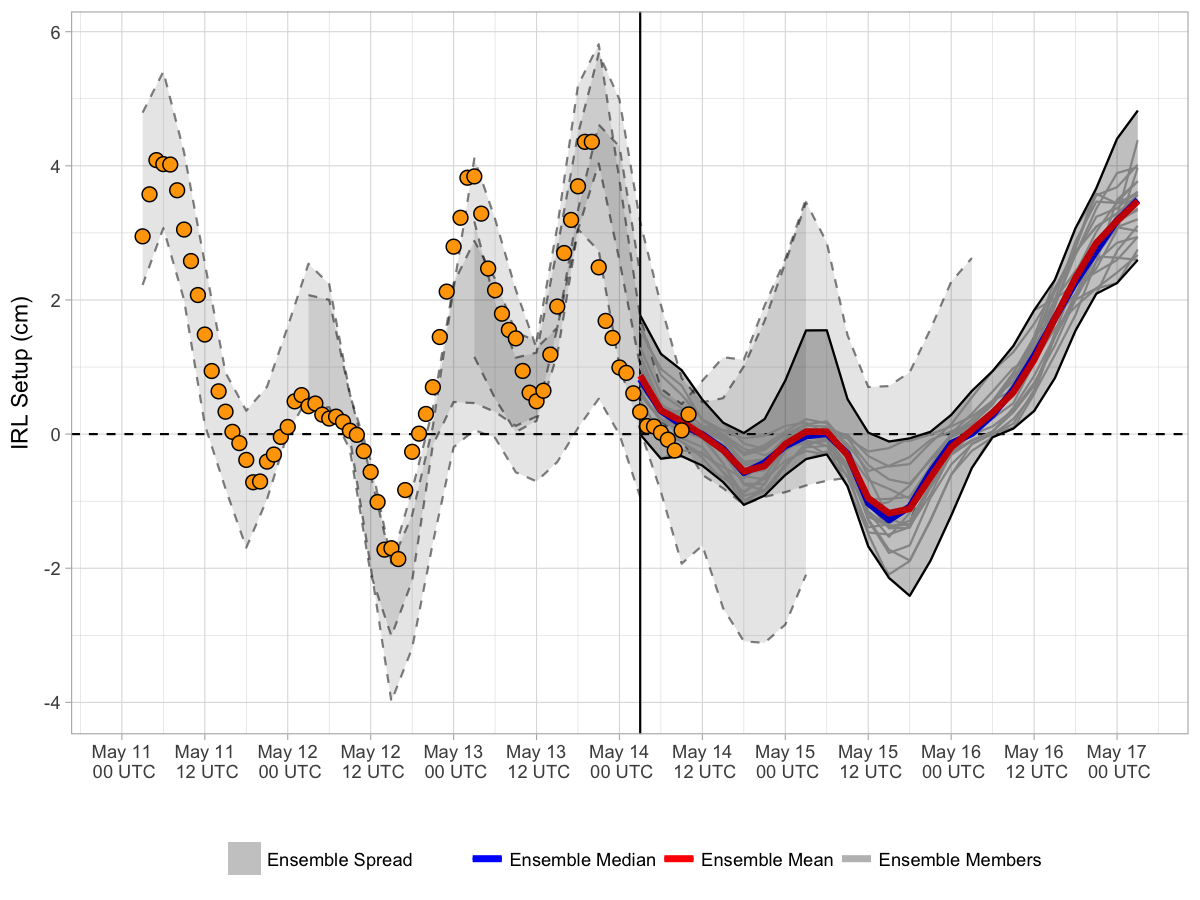
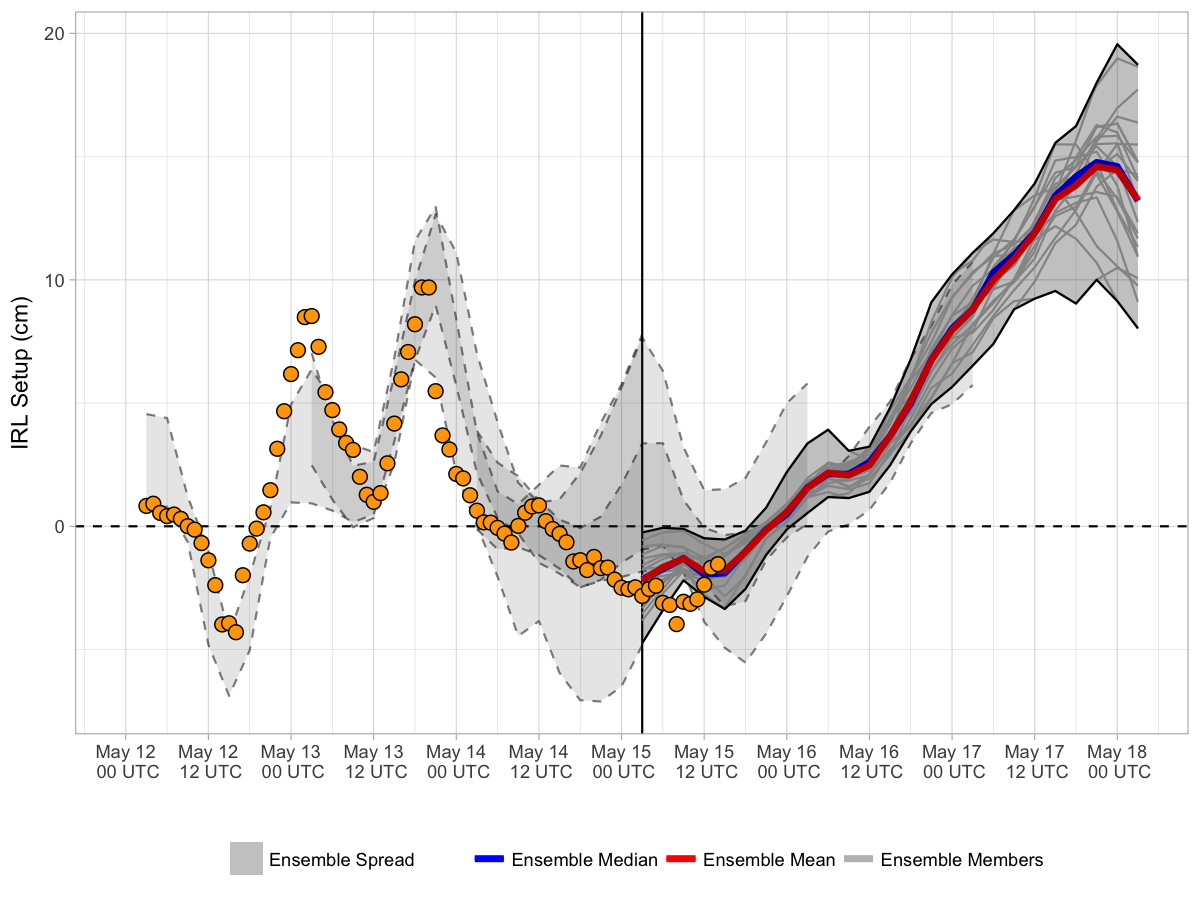
20170515 forecast update

diff --git a/docs/index.md b/docs/index.md
@@ -3,7 +3,7 @@ Current Forecast
 
 [![](img/raw_setup.png)](https://bhlmn.github.io/IRLSetup/img/raw_setup.png)
 
-> Forecast valid 2017-05-14 07:18:57.
+> Forecast valid 2017-05-15 11:04:22.
 
 Explanation
 -----------
@@ -15,7 +15,7 @@ water elevation in the northern IRL (near Titusville), and negative
 setup indicates the increase elevation in the southern IRL (near
 Sebastian). The x-axis displays the date and time in UTC. The solid
 vertical line represents the beginning of the most recent ensemble
-forecast (currently 2017-05-13 18:00:00). For this most recent forecast,
+forecast (currently 2017-05-14 18:00:00). For this most recent forecast,
 the ensemble spread (grey shading) is bound by solid black lines, with
 individual members represented by faint grey lines. The ensemble mean
 and median for this are represented by the red and blue curves,
